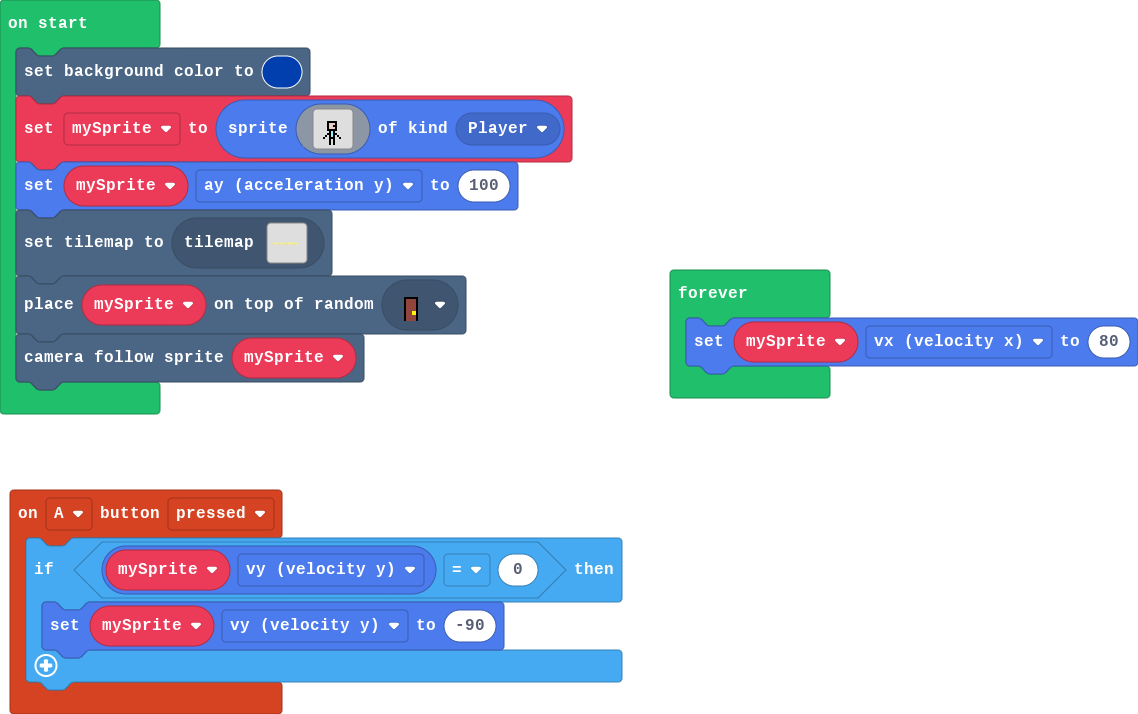
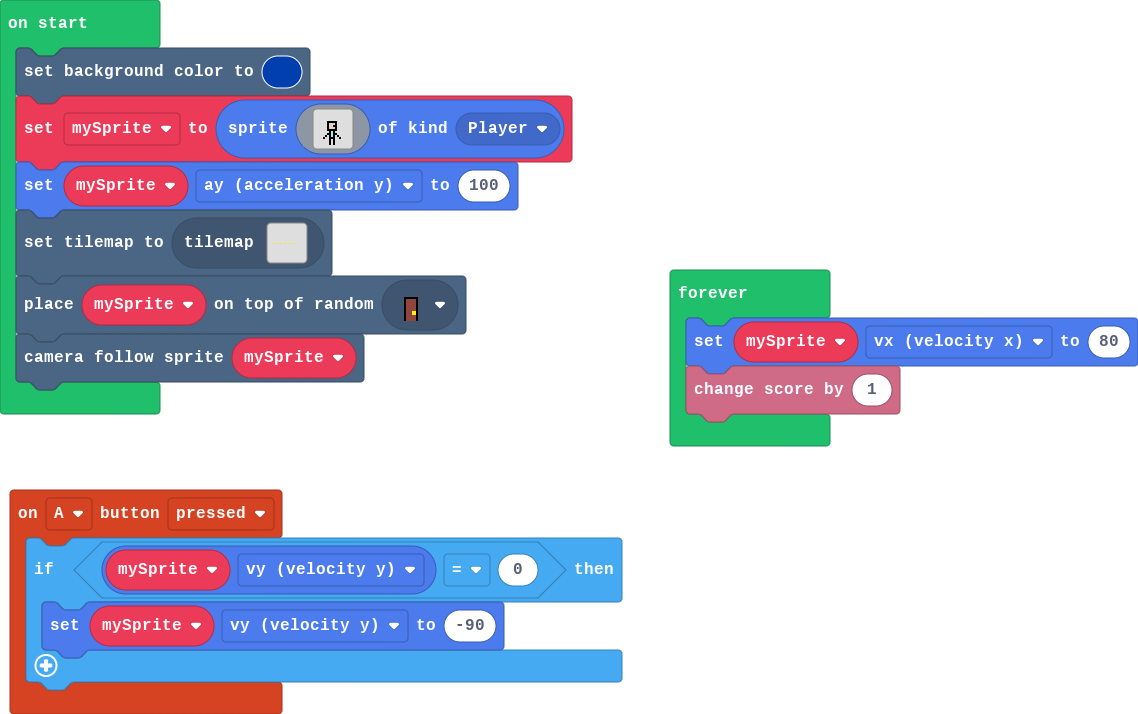
Update main.blocks, main.ts, tilemap.g.jres, tilemap.g.ts

Changed region(s): [[0.5844, 0.493, 0.7996, 0.6471]]

diff --git a/tilemap.g.ts b/tilemap.g.ts
@@ -12,17 +12,17 @@ namespace myTiles {
     helpers._registerFactory("tilemap", function(name: string) {
         switch(helpers.stringTrim(name)) {
             case "level1":
[1 lines of base64/hex data omitted]
-....................................................................................................
-....................................................................................................
-....................................................................................................
-....................................................................................................
-......................................................222...........................................
-.................................................2222.222.............222222........................
-........2222222..22222222222..22222222222.......22222.2222222222222222222222222.....................
-.......22222222..22222222222..22222222222....22222222.2222222222222222222222222222222...............
-......222222222..22222222222..22222222222222222222222.2222222222222222222222222222222...............
-222222222222222..22222222222..22222222222222222222222.2222222222222222222222222222222...............
[1 lines of base64/hex data omitted]
+........................................................................................................................................................................................................
+........................................................................................................................................................................................................
+........................................................................................................................................................................................................
+........................................................................................................................................................................................................
+......................................................222...............................................................................................................................................
+.................................................2222.222.............222222.....................................222222222..........2222................................................................
+........2222222..22222222222..22222222222.......22222.2222222222222222222222222........2222....222..........2222222222222222222222..22222...............................................................
+.......22222222..22222222222..22222222222....22222222.22222222222222222222222222222222222222.2222222....222.22222222222222222222222222222........22222222222............................................
+......222222222..22222222222..22222222222222222222222.222222222222222222222222222222222222222222222222222222222222222222222222222222222222222222.22222222222............................................
+222222222222222..22222222222..22222222222222222222222.222222222222222222222222222222222222222222222222222222222222222222222222222222222222222222.22222222222............................................
 `, [myTiles.transparency16,myTiles.tile2,myTiles.tile3], TileScale.Sixteen);
         }
         return null;

diff --git a/main.ts b/main.ts
@@ -29,4 +29,5 @@ tiles.placeOnRandomTile(mySprite, assets.tile`myTile1`)
 scene.cameraFollowSprite(mySprite)
 forever(function () {
     mySprite.vx = 80
+    info.changeScoreBy(1)
 })
